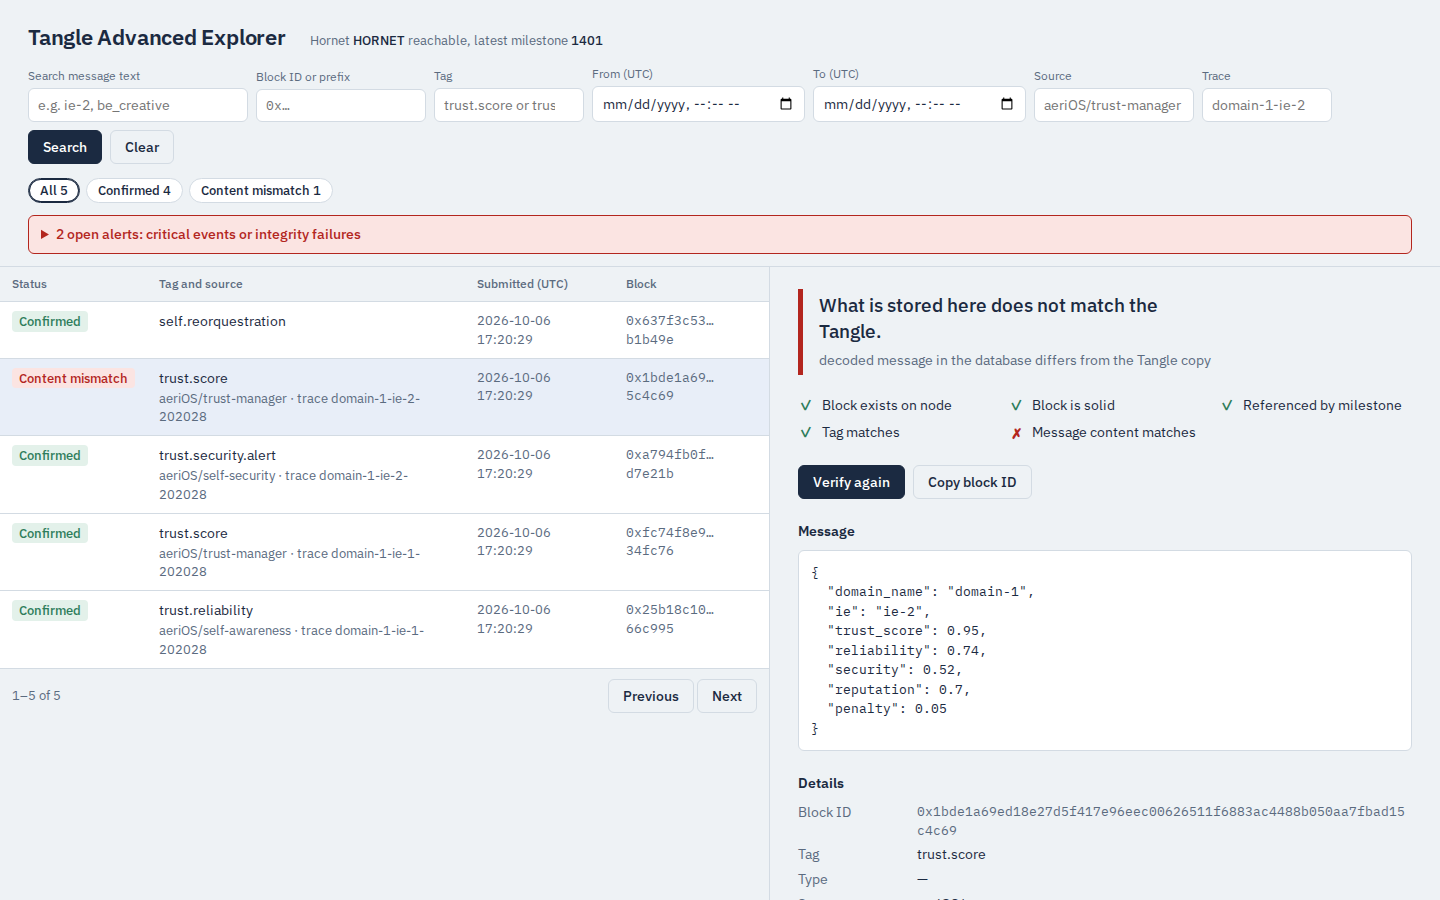
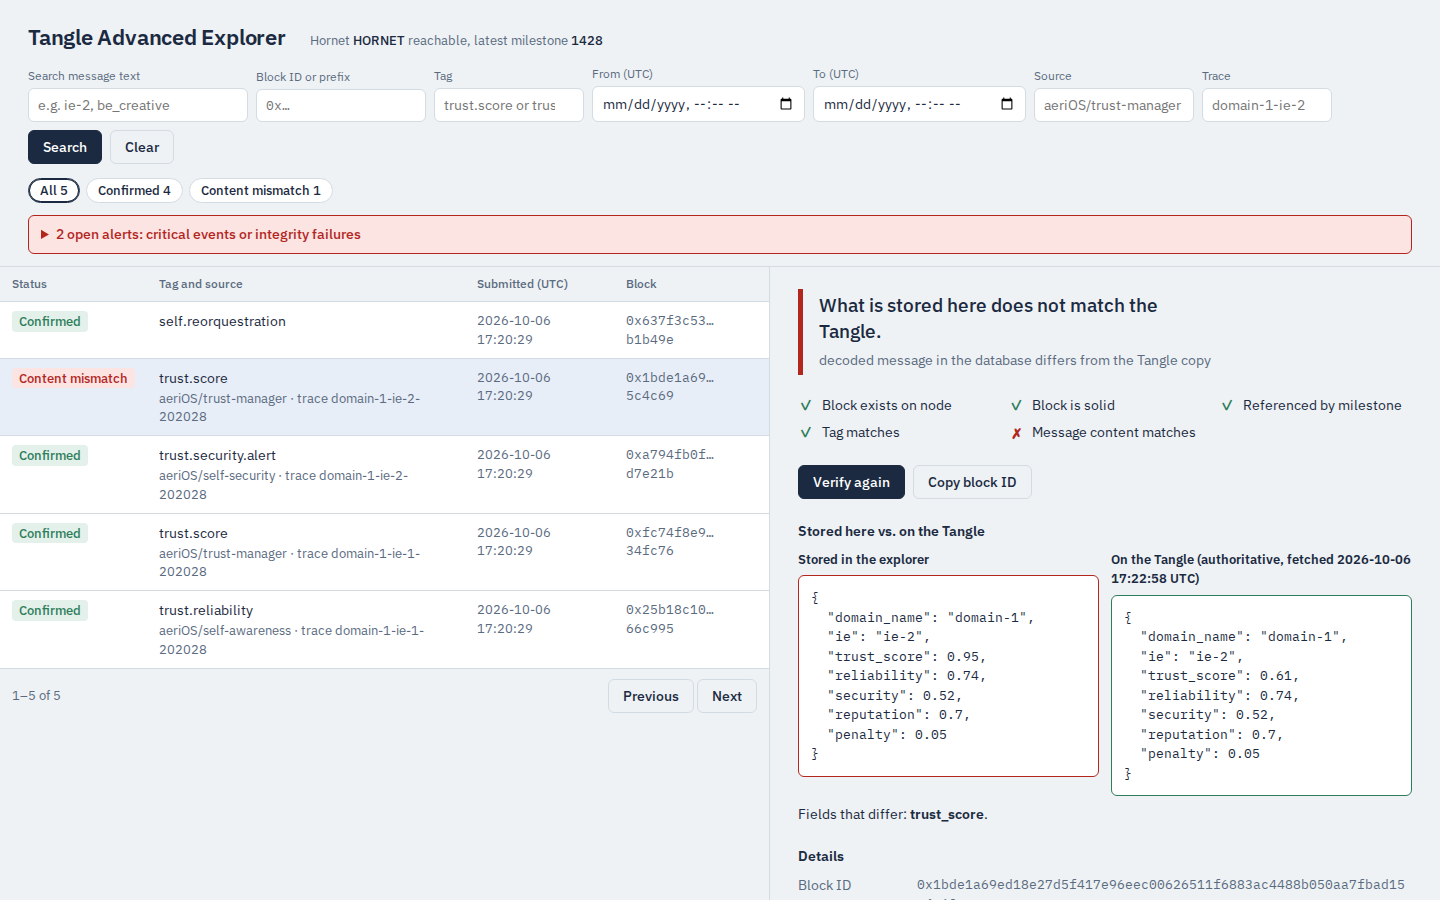
feat(explorer,ui): live Tangle copy and side-by-side view on content mismatch (DESIGN D13)
GET /api/messages/{id}/tangle fetches and decodes the block from Hornet (read-only, never
stored). On content_mismatch the UI shows stored vs Tangle copies and names the fields that
differ (demo: trust_score 0.95 vs 0.61). Rendered comparison is cached so the 5 s refresh
doesn't flicker (checked headless: 0 of 30 samples missing it).

diff --git a/explorer/app/static/index.html b/explorer/app/static/index.html
@@ -75,6 +75,11 @@ a.link{color:var(--focus);cursor:pointer;text-decoration:underline;text-underlin
 .tl li::before{content:"";position:absolute;left:-25px;top:13px;width:10px;height:10px;border-radius:50%;background:var(--muted);border:2px solid var(--paper)}
 .tl li.ok::before{background:var(--ok)}.tl li.wait::before{background:var(--wait)}.tl li.bad::before{background:var(--bad)}
 .tl .when{font-size:12.5px;color:var(--muted)}
+.cmp{display:grid;grid-template-columns:minmax(0,1fr) minmax(0,1fr);gap:12px}
+.cmp h3{font-size:13px;font-weight:600;margin:0 0 6px}
+.cmp .tangle pre{border-color:var(--ok)}.cmp .stored pre{border-color:var(--bad)}
+.diffkeys{font-size:13.5px;margin:8px 0 0}
+@media (max-width:600px){.cmp{grid-template-columns:1fr}}
 @media (max-width:860px){main{grid-template-columns:1fr}#list,#detail{max-height:none}#list{border-right:0;border-bottom:1px solid var(--rule)}}
 @media (max-width:600px){th:nth-child(4),td:nth-child(4){display:none}.filters input{width:100%!important}.filters label{flex:1 1 140px}}
 @media (prefers-reduced-motion:no-preference){tr.row{transition:background .12s}}
@@ -211,8 +216,10 @@ async function showDetail(id){
     </ul>
     <div class="actions"><button onclick="reverify('${m.block_id}')">Verify again</button>
       <button class="quiet" onclick="navigator.clipboard.writeText('${m.block_id}')">Copy block ID</button></div>
-    <h2>Message</h2>
-    <pre>${esc(JSON.stringify(m.message, null, 2))}</pre>
+    <div id="cmp-slot">${v.status === "content_mismatch" && cmpCache[m.block_id] ? cmpCache[m.block_id] : `
+      <h2>Message</h2>
+      <pre>${esc(JSON.stringify(m.message, null, 2))}</pre>`}
+    </div>
     <h2>Details</h2>
     <dl>
       <dt>Block ID</dt><dd class="id">${m.block_id}</dd>
@@ -235,6 +242,25 @@ async function showDetail(id){
     </tbody></table>
     <h2>Raw bytes sent to Hornet</h2>
     <dl><dt>tag (hex)</dt><dd class="id">${m.raw.tag_hex}</dd><dt>data (hex)</dt><dd class="id">${m.raw.data_hex}</dd></dl>`;
+  if (v.status === "content_mismatch") showComparison(m);
+}
+
+const cmpCache = {};   // block id -> last rendered comparison, so the 5 s refresh does not flicker
+async function showComparison(m){
+  const r = await fetch(`/api/messages/${encodeURIComponent(m.block_id)}/tangle`);
+  const slot = document.getElementById("cmp-slot");
+  if (!r.ok || !slot || state.selected !== m.block_id) return;
+  const t = await r.json();
+  const a = m.message ?? {}, b = t.message ?? {};
+  const keys = (typeof a === "object" && typeof b === "object")
+    ? [...new Set([...Object.keys(a), ...Object.keys(b)])].filter(k => JSON.stringify(a[k]) !== JSON.stringify(b[k])) : [];
+  const tagNote = t.tag !== m.tag ? `<p class="diffkeys">Tag differs: stored <b>${esc(m.tag)}</b>, on the Tangle <b>${esc(t.tag)}</b>.</p>` : "";
+  slot.innerHTML = cmpCache[m.block_id] = `<h2>Stored here vs. on the Tangle</h2>
+    <div class="cmp">
+      <div class="stored"><h3>Stored in the explorer</h3><pre>${esc(JSON.stringify(m.message, null, 2))}</pre></div>
+      <div class="tangle"><h3>On the Tangle (authoritative, fetched ${fmt(t.fetched_at)} UTC)</h3><pre>${esc(t.message !== null ? JSON.stringify(t.message, null, 2) : (t.data_text ?? "(not UTF-8)"))}</pre></div>
+    </div>
+    ${keys.length ? `<p class="diffkeys">Fields that differ: ${keys.map(k => `<b>${esc(k)}</b>`).join(", ")}.</p>` : ""}${tagNote}`;
 }
 async function showTrace(trace, verify=false){
   state.trace = trace; state.selected = null;

diff --git a/explorer/app/main.py b/explorer/app/main.py
@@ -15,7 +15,9 @@ from sqlalchemy.exc import IntegrityError
 
 from . import alerts, mqtt
 from .db import Alert, Message, SessionLocal, init_db, utcnow
-from .verify import RETRYABLE, Hornet, sha256_hex, verify_message
+import httpx
+
+from .verify import RETRYABLE, Hornet, _decode, sha256_hex, verify_message
 
 logging.basicConfig(level=logging.INFO, format="%(asctime)s %(levelname)s %(name)s %(message)s")
 log = logging.getLogger("explorer")
@@ -224,6 +226,29 @@ def _get(s, block_id: str) -> Message:
 def detail(block_id: str):
     with SessionLocal() as s:
         return serialize(_get(s, block_id), with_history=True)
+
+
+@app.get("/api/messages/{block_id}/tangle")
+def tangle_copy(block_id: str):
+    """What the Tangle holds for this block right now (live GET block on Hornet, never stored)."""
+    with SessionLocal() as s:
+        _get(s, block_id)                                  # only blocks the explorer knows about
+    try:
+        block = hornet.block(block_id)
+    except httpx.HTTPError as e:
+        raise HTTPException(502, f"Hornet request failed: {e}")
+    if block is None:
+        raise HTTPException(404, f"Hornet has no block {block_id}")
+    payload = block.get("payload") or {}
+    text = _decode(payload.get("data"))
+    try:
+        message = json.loads(text) if text is not None else None
+    except ValueError:
+        message = None
+    return {"block_id": block_id, "payload_type": payload.get("type"), "tag": _decode(payload.get("tag")),
+            "message": message, "data_text": text, "tag_hex": payload.get("tag"), "data_hex": payload.get("data"),
+            "data_sha256": sha256_hex(payload["data"]) if payload.get("data") else None,
+            "fetched_at": _iso(utcnow())}
 
 
 @app.post("/api/messages/{block_id}/verify")

diff --git a/tests/test_api.py b/tests/test_api.py
@@ -230,3 +230,25 @@ def test_trace_verify_checks_every_event_against_hornet(monkeypatch):
     tl = client.post("/api/traces/t-1/verify").json()
     assert tl["verified"] is False and tl["problems"] == 1
     assert {e["block_id"]: e["verification"]["status"] for e in tl["timeline"]}[bid(30)] == "content_mismatch"
+
+
+# ---------- live Tangle copy (DESIGN D13) ----------
+def test_tangle_copy_returns_decoded_block(monkeypatch):
+    import json
+    payload = BLOCK["payload"]
+    client.post("/api/ingest", json={"block_id": BLOCK_ID, "tag": "x", "message": {"forged": True}})
+    monkeypatch.setattr(main, "hornet", fake_hornet())
+    d = client.get(f"/api/messages/{BLOCK_ID}/tangle").json()
+    assert d["tag"] == bytes.fromhex(payload["tag"][2:]).decode()
+    assert d["message"] == json.loads(bytes.fromhex(payload["data"][2:]))
+    assert (d["tag_hex"], d["data_hex"], d["payload_type"]) == (payload["tag"], payload["data"], 5)
+    assert client.get(f"/api/messages/{BLOCK_ID}").json()["message"] == {"forged": True}   # nothing stored
+
+
+def test_tangle_copy_errors(monkeypatch):
+    assert client.get(f"/api/messages/{bid(77)}/tangle").status_code == 404           # unknown to explorer
+    ingest(77)
+    monkeypatch.setattr(main, "hornet", fake_hornet(block=None))
+    assert client.get(f"/api/messages/{bid(77)}/tangle").status_code == 404           # unknown to Hornet
+    monkeypatch.setattr(main, "hornet", fake_hornet(fail=httpx.ConnectError("down")))
+    assert client.get(f"/api/messages/{bid(77)}/tangle").status_code == 502

diff --git a/docs/DESIGN.md b/docs/DESIGN.md
@@ -23,4 +23,4 @@ Entries without a basis are proposals and are not implemented.
 | D10 | **Alerts (Idea #4).** An `alerts` row is appended (never updated except `acknowledged_at`) when (a) a check moves a message *into* `content_mismatch`, `not_found` or `conflicting` from a different status (integrity alert; repeated audits with the same status do not repeat it), or (b) a message whose tag matches `ALERT_TAGS` (comma list of shell-style globs via stdlib `fnmatch`, e.g. `*.alert`; empty = off; the compose demo sets `*.alert`) is ingested (application alert; *which* events are critical is left to configuration, not invented). Delivery: `GET /api/alerts` (`since_id` for polling), `POST /api/alerts/{id}/ack`, a UI banner, and an optional `ALERT_WEBHOOK_URL` (POST JSON, best effort, failures logged) | (c) UPV slides p.6, Idea #4: "real-time notifications or alerts when critical events occur"; problem statuses from §8 | implemented incl. UI banner; live: application + integrity alerts and webhook delivery on the real node |
 | D11 | **Additive schema upgrade.** On startup, columns missing from existing tables are added with `ALTER TABLE … ADD COLUMN` (nullable), so an existing database keeps working after an upgrade. No other migration tooling | (e) test `test_startup_adds_missing_trace_column`; avoids a new dependency (rule 12) | implemented; verified on the running PostgreSQL |
 | D12 | **MQTT (Idea #1).** A Mosquitto broker in compose. After Hornet accepts a block, the Messages API also publishes the same record it forwards over HTTP to topic `aerios/iota/blocks` (QoS 1); a broker outage never fails or delays an upload. The explorer subscribes to that topic with a **persistent session** (fixed client id, `clean_session=False`, QoS 1) and ingests through the same idempotent code as `POST /api/ingest`, so MQTT is a second, independent delivery path: the first path to arrive creates the row (`received_via` = `http` or `mqtt`), the other is a no-op. Alerts (D10) are also published to `aerios/explorer/alerts`. MQTT is optional: without `MQTT_HOST` both services behave as before. The broker allows anonymous access on the compose network only (demo setting, stated in the README) | (c) UPV slides p.6, Idea #1 ("receive a publication from IOTA API every time a new message is inserted … your own application that subscribes to the proper topic"); persistent session proven live: `reports/mqtt/*_explorer_outage.txt` (explorer down 25 s, HTTP forwarding gave up, both messages delivered via MQTT on restart and confirmed) | implemented |
-| D13 | **Show what the Tangle holds.** `GET /api/messages/{block_id}/tangle` fetches the block from Hornet live (GET block) and returns its decoded tag and message, raw hex and SHA-256, read-only, never stored. On a `content_mismatch` the UI shows the stored copy and the Tangle copy side by side and lists the top-level fields that differ | (a) brief: "the Tangle remains the authoritative source … the Advanced Explorer should provide a more accessible representation"; reuses D2's GET block | planned |
+| D13 | **Show what the Tangle holds.** `GET /api/messages/{block_id}/tangle` fetches the block from Hornet live (GET block) and returns its decoded tag and message, raw hex and SHA-256, read-only, never stored. On a `content_mismatch` the UI shows the stored copy and the Tangle copy side by side and lists the top-level fields that differ | (a) brief: "the Tangle remains the authoritative source … the Advanced Explorer should provide a more accessible representation"; reuses D2's GET block | implemented; tests `test_tangle_copy_*`; live screenshot `docs/screenshots/2_tampered_message.png` |

diff --git a/docs/PITCH.md b/docs/PITCH.md
@@ -76,7 +76,7 @@ Before going on stage: the tangle is up (`curl -s localhost:14265/api/core/v2/in
 | 4 | "Search by what humans know: block id, date, tag, plus source and text." | Step 4 counts. In the UI: a block-id prefix, a date range, tag `trust*` |
 | 4b | "Every record also travels over MQTT: a live feed, and a second path that survives explorer downtime." | In a second terminal: `make mqtt-watch` shows the block records and alerts as they happen. Step 3 prints which path stored each message |
 | 5 | "Related events become a verified timeline. A security alert from Self-Security raised an alert as soon as it arrived." | Step 5: the trace timeline, every event checked against its own block id. In the UI: the alerts banner, then the trace link → timeline |
-| 6 | "Now someone inflates ie-2's trust score in the explorer's database, 0.61 → 0.95." | Step 6: **Content mismatch** ("decoded message in the database differs from the Tangle copy"), the trace flips to *not verified*, a new integrity alert appears in the banner |
+| 6 | "Now someone inflates ie-2's trust score in the explorer's database, 0.61 → 0.95." | Step 6: **Content mismatch** ("decoded message in the database differs from the Tangle copy"), the trace flips to *not verified*, a new integrity alert appears in the banner. Open the message: stored copy and Tangle copy side by side, "Fields that differ: **trust_score**" |
 | 7 | "The Tangle stays the authority. The explorer makes it readable, and it can't be quietly falsified." | Point at the raw hex and SHA-256 in the detail view |
 
 Fallback if the network or tangle fails on stage: the screenshots in `docs/screenshots/` and the saved runs in `reports/demo/`.

diff --git a/README.md b/README.md
@@ -98,6 +98,7 @@ Interactive docs: http://localhost:8090/docs
 | `POST /api/ingest` | Called by the Messages API. Idempotent on `block_id` (`created: false` on repeats). Rejects anything but a full lowercase 66-char block id (422). |
 | `GET /api/messages` | Search. `block_id`: full id, or a prefix of at least 6 hex chars (`0x` optional). `tag`: exact, or `trust*` for prefix. `from`, `to`: ISO 8601, inclusive, UTC unless an offset is given. Also `type`, `source`, `trace`, `status` (comma-separated), `q` (case-insensitive text in the message or tag), `milestone`. Paging: `limit` (≤ 500), `offset`; `total` is the full count. `sort`: `-submitted_at` (default), `submitted_at`, `milestone_index`, `tag` (prefix `-` for descending). |
 | `GET /api/messages/{block_id}` | Full record with verification history. |
+| `GET /api/messages/{block_id}/tangle` | What the Tangle holds for this block right now (live GET block, decoded), never stored. The UI shows it next to the stored copy on a mismatch. |
 | `POST /api/messages/{block_id}/verify` | Re-verify against Hornet now. |
 | `GET /api/traces` | Traces (related events sharing a `trace` id): event count, first/last time, status counts, `verified` (all confirmed), `problems`. |
 | `GET /api/traces/{trace_id}` | Timeline: the trace's events in chronological order, each with its verification status, milestone and milestone time. |
